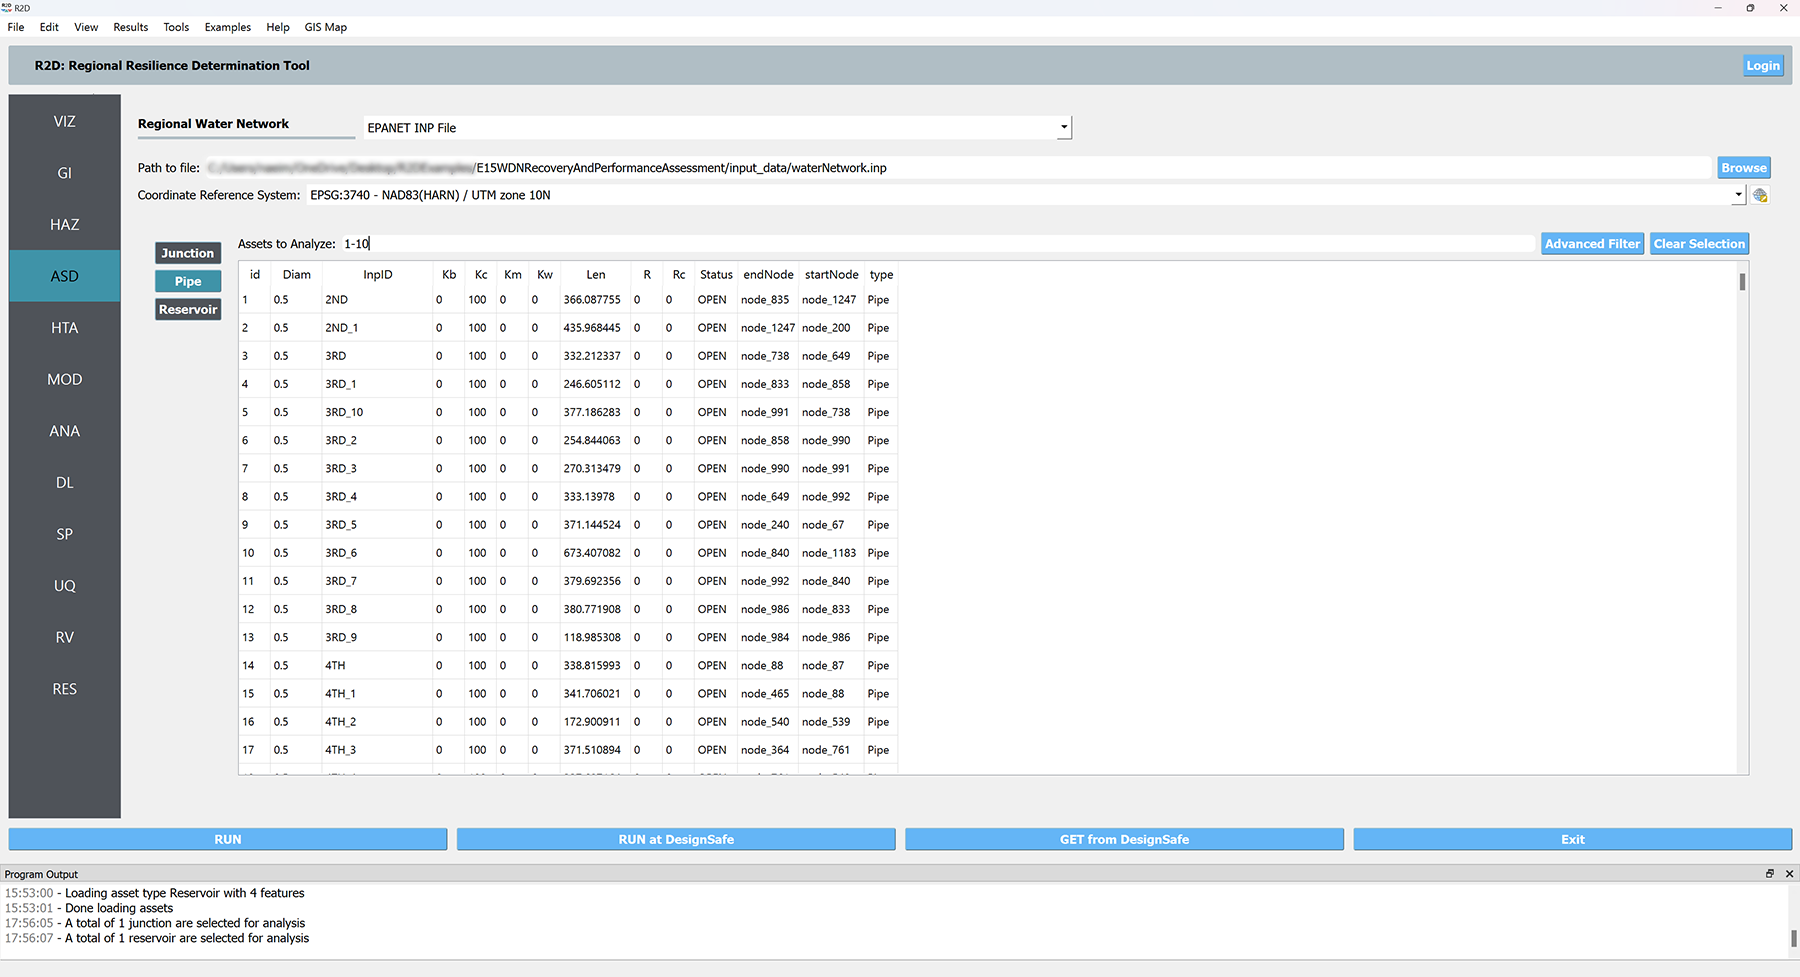
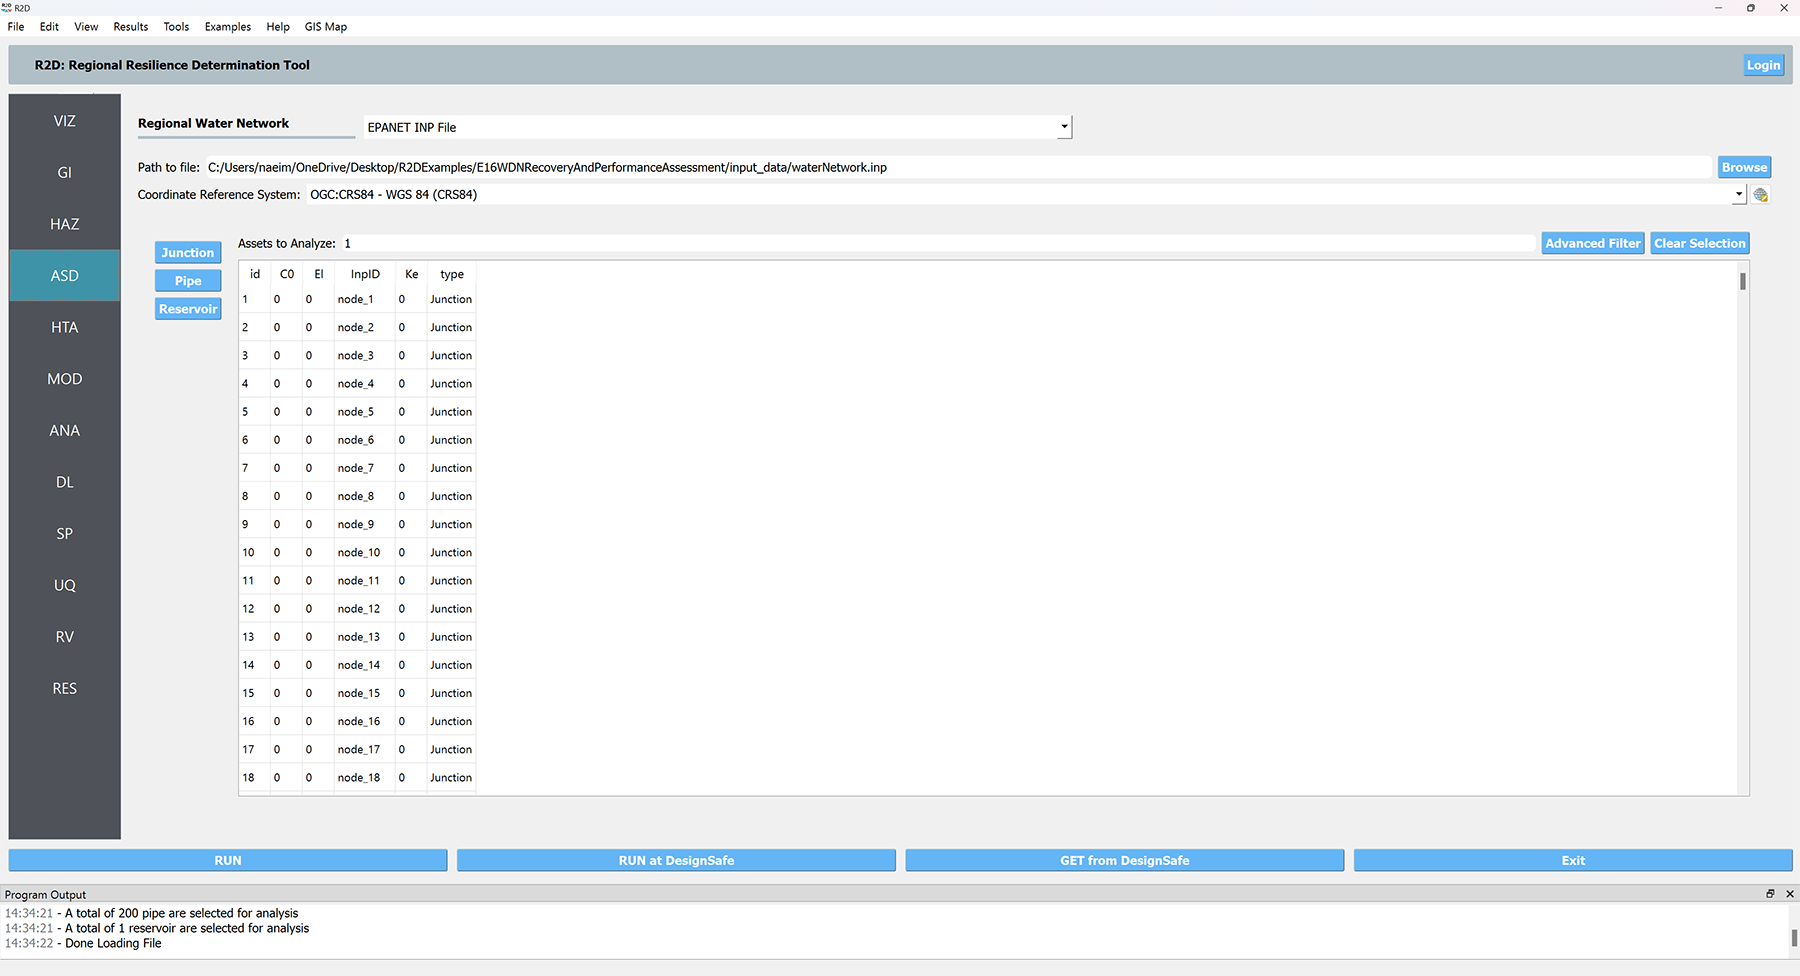
Add more pipes fo damage in E16

diff --git a/E16WDNRecoveryAndPerformanceAssessment/README.rst b/E16WDNRecoveryAndPerformanceAssessment/README.rst
@@ -41,7 +41,7 @@ In the following steps, we will guide you through each stage of the assessment. 
 
 #. **ASD** A Water Distribution Network (WDN) consists of pipes, pumps, tanks, valves, and junctions (also known as nodes). This information can be provided in many formats, but the **EPANET** file format (**INP**) is widely used in the industry and research. Thus, REWET uses this format for input. Consequently, the INP to GEOJSON tool is selected to translate the INP file to the R2D internal format. Then, the path to the INP file must be provided. Since the INP file format does not contain projection system information, the projection system must be defined by the user. This projection system aligns with the coordinates defined for the system components in the INP file. Furthermore, the user may select the assets for which the loss estimation will be performed using the filter functionality.
 
-		.. note:: We enter **1** in the filter value for junction and reservoir since the damage of those is not being modeled for this example. Also, we enter **1-100** to limit the damage modeling to the first 100 pipes in our asset list, so that the damage modeling is kept short.
+		.. note:: We enter **1** in the filter value for junction and reservoir since the damage of those is not being modeled for this example. Also, we enter **1-200** to limit the damage modeling to the first 200 pipes in our asset list, so that the damage modeling is kept short.
 
 	.. figure:: figures/r2dt-0015-ASD.png
 	  :width: 800px
